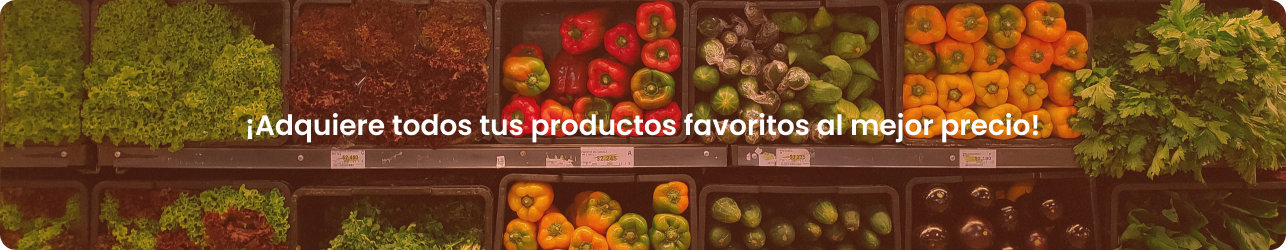
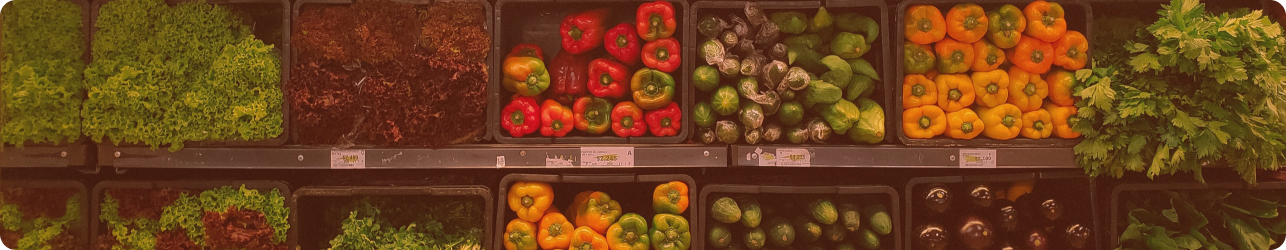
Llamamos tarjetas con peticion fetch - mostratTarjetas.js

Changed region(s): [[0.1866, 0.448, 0.8087, 0.56]]

diff --git a/css/styles.css b/css/styles.css
@@ -147,7 +147,7 @@
 }
 
 .bienvenida{
-  background-image: url("../img/nav-bar/Banner3.jpg");
+  background-image: url("../img/nav-bar/banner.png");
   background-position:center center; /*respecto a body*/
   background-repeat: no-repeat;
   height: 100%;
@@ -169,13 +169,26 @@
   border: 3px solid cyan;
   width: 100%;
   height: 70vh;
+  display: flex;
 }
 
 .cards{
   border: 3px solid blueviolet;
   display: flex;
   flex-direction: row;
+  width: 80%;
+  height: 80%;
+  margin: auto;
+  justify-content: space-around;
 }
+/*Estilos tarjeta*/
 .tarjeta{
   border: 2px solid blue;
+  height: 80%;
+  width: 15%;
+  margin: auto;
+}
+.descuento{
+  border: 2px solid purple;
+  width: 20%;
 }

diff --git a/index.html b/index.html
@@ -64,7 +64,7 @@
 
     <div class="seccion_ofertas">
         <div class="cards" id="cards">
-
+            
         </div>
     </div>
 
